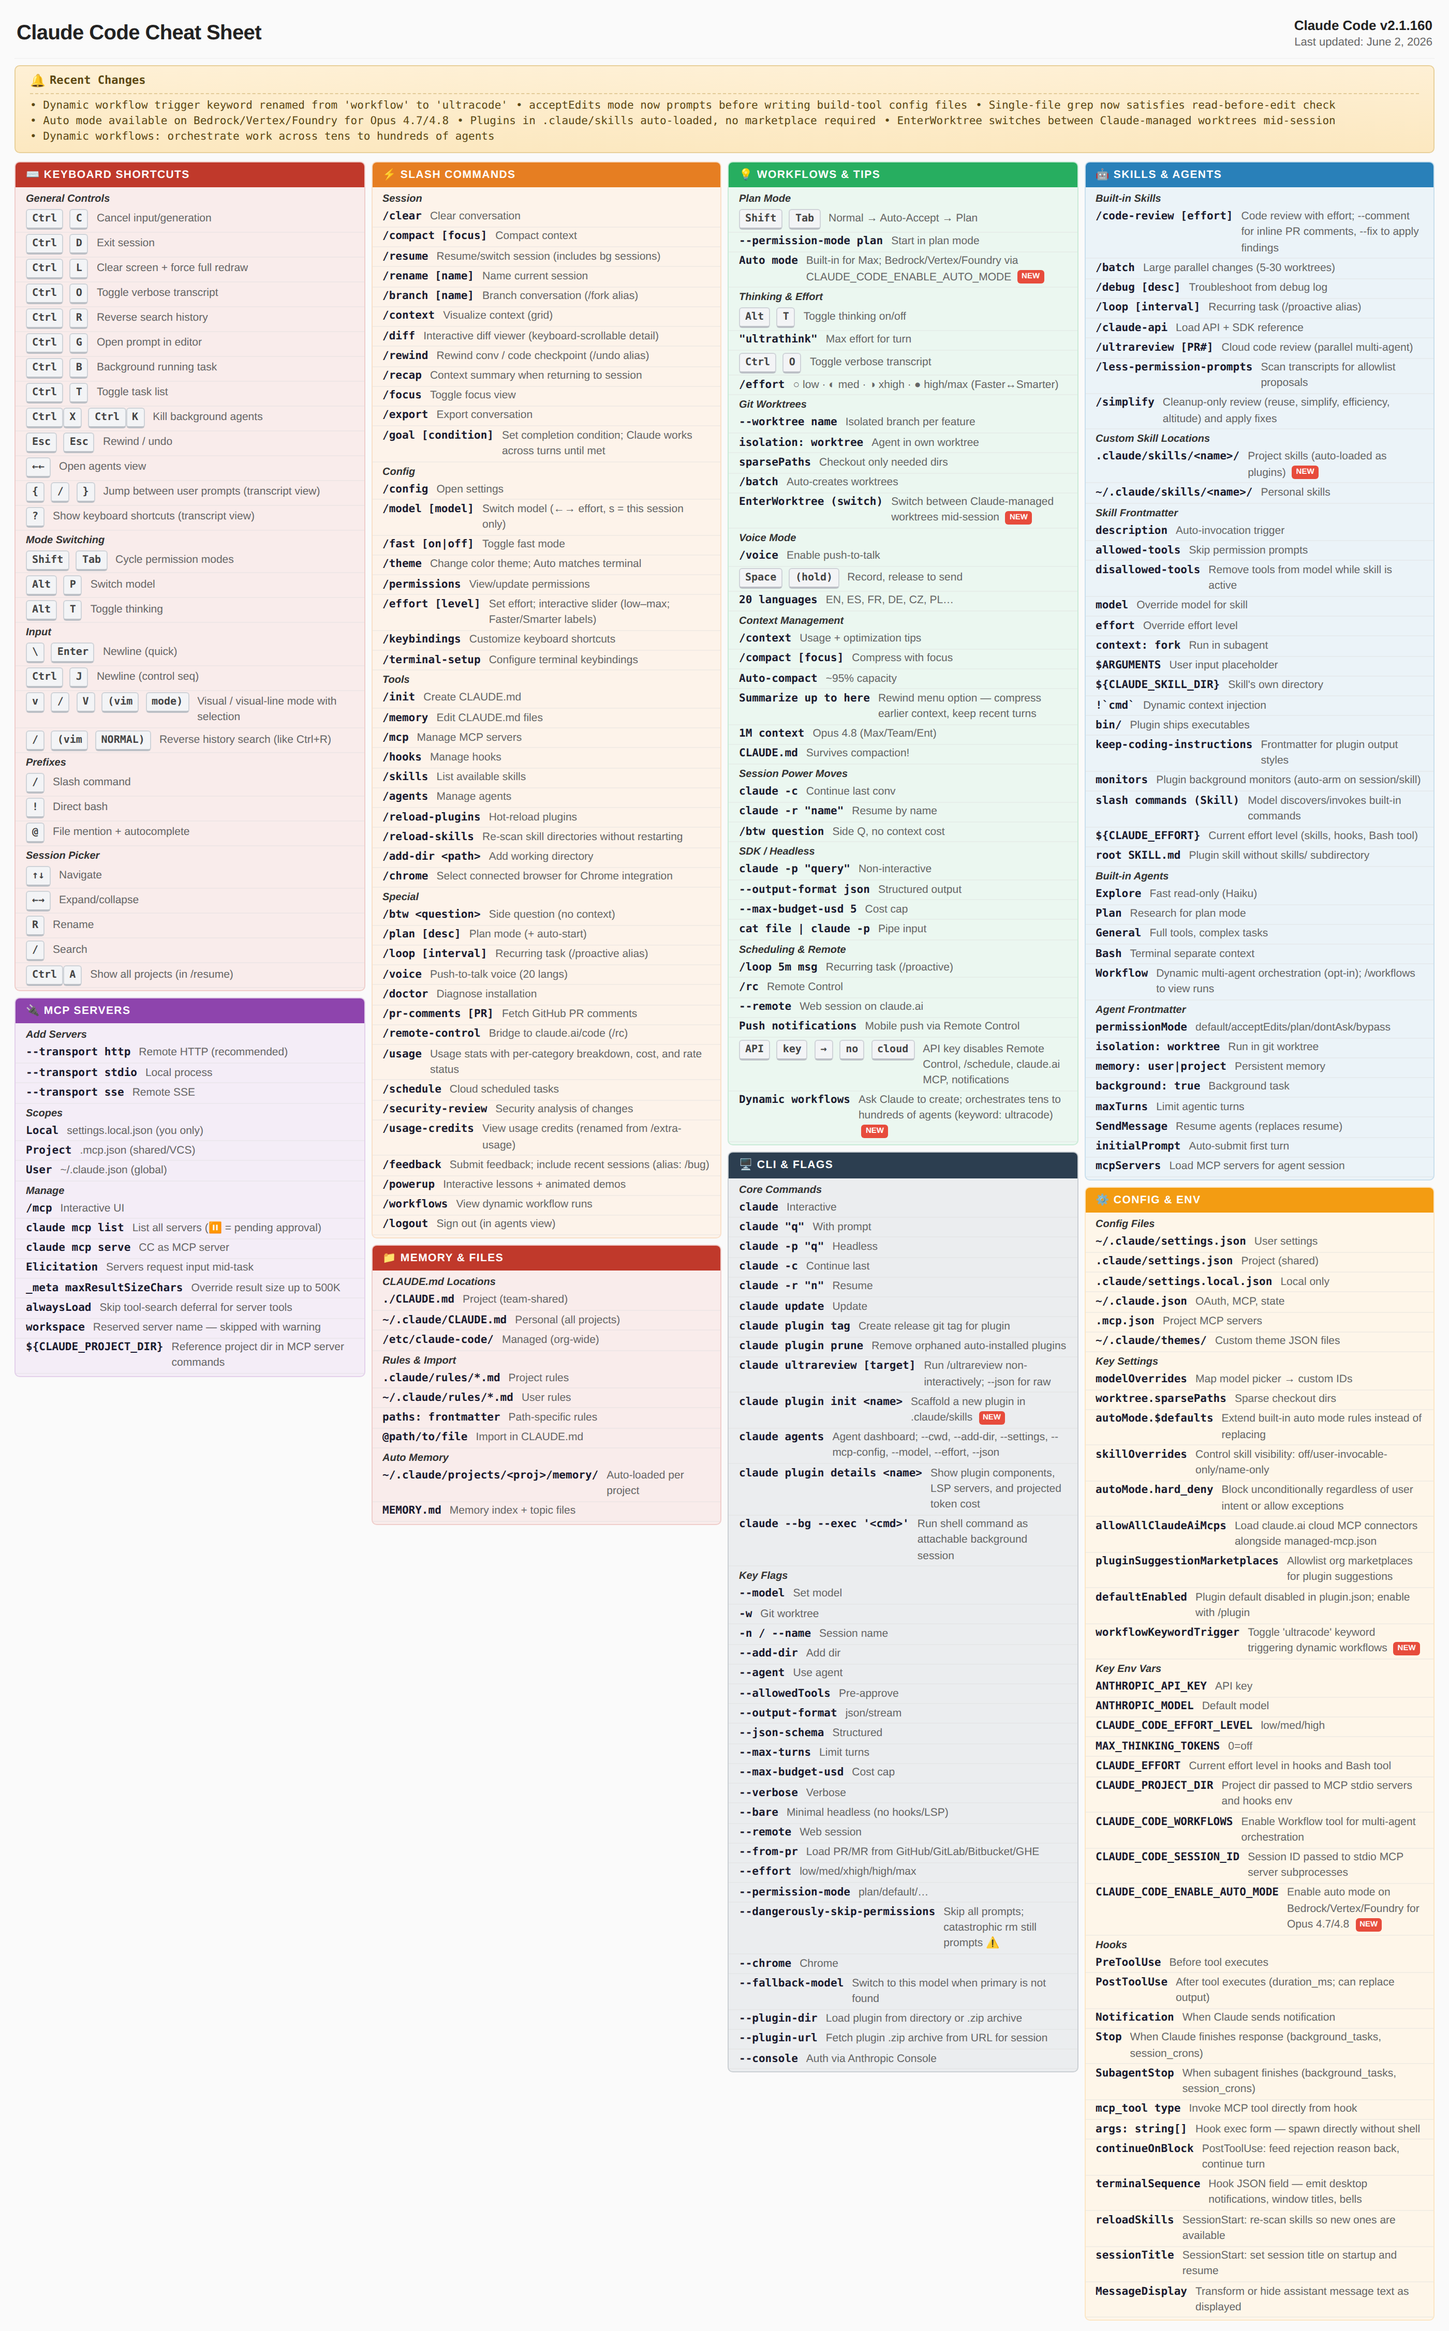
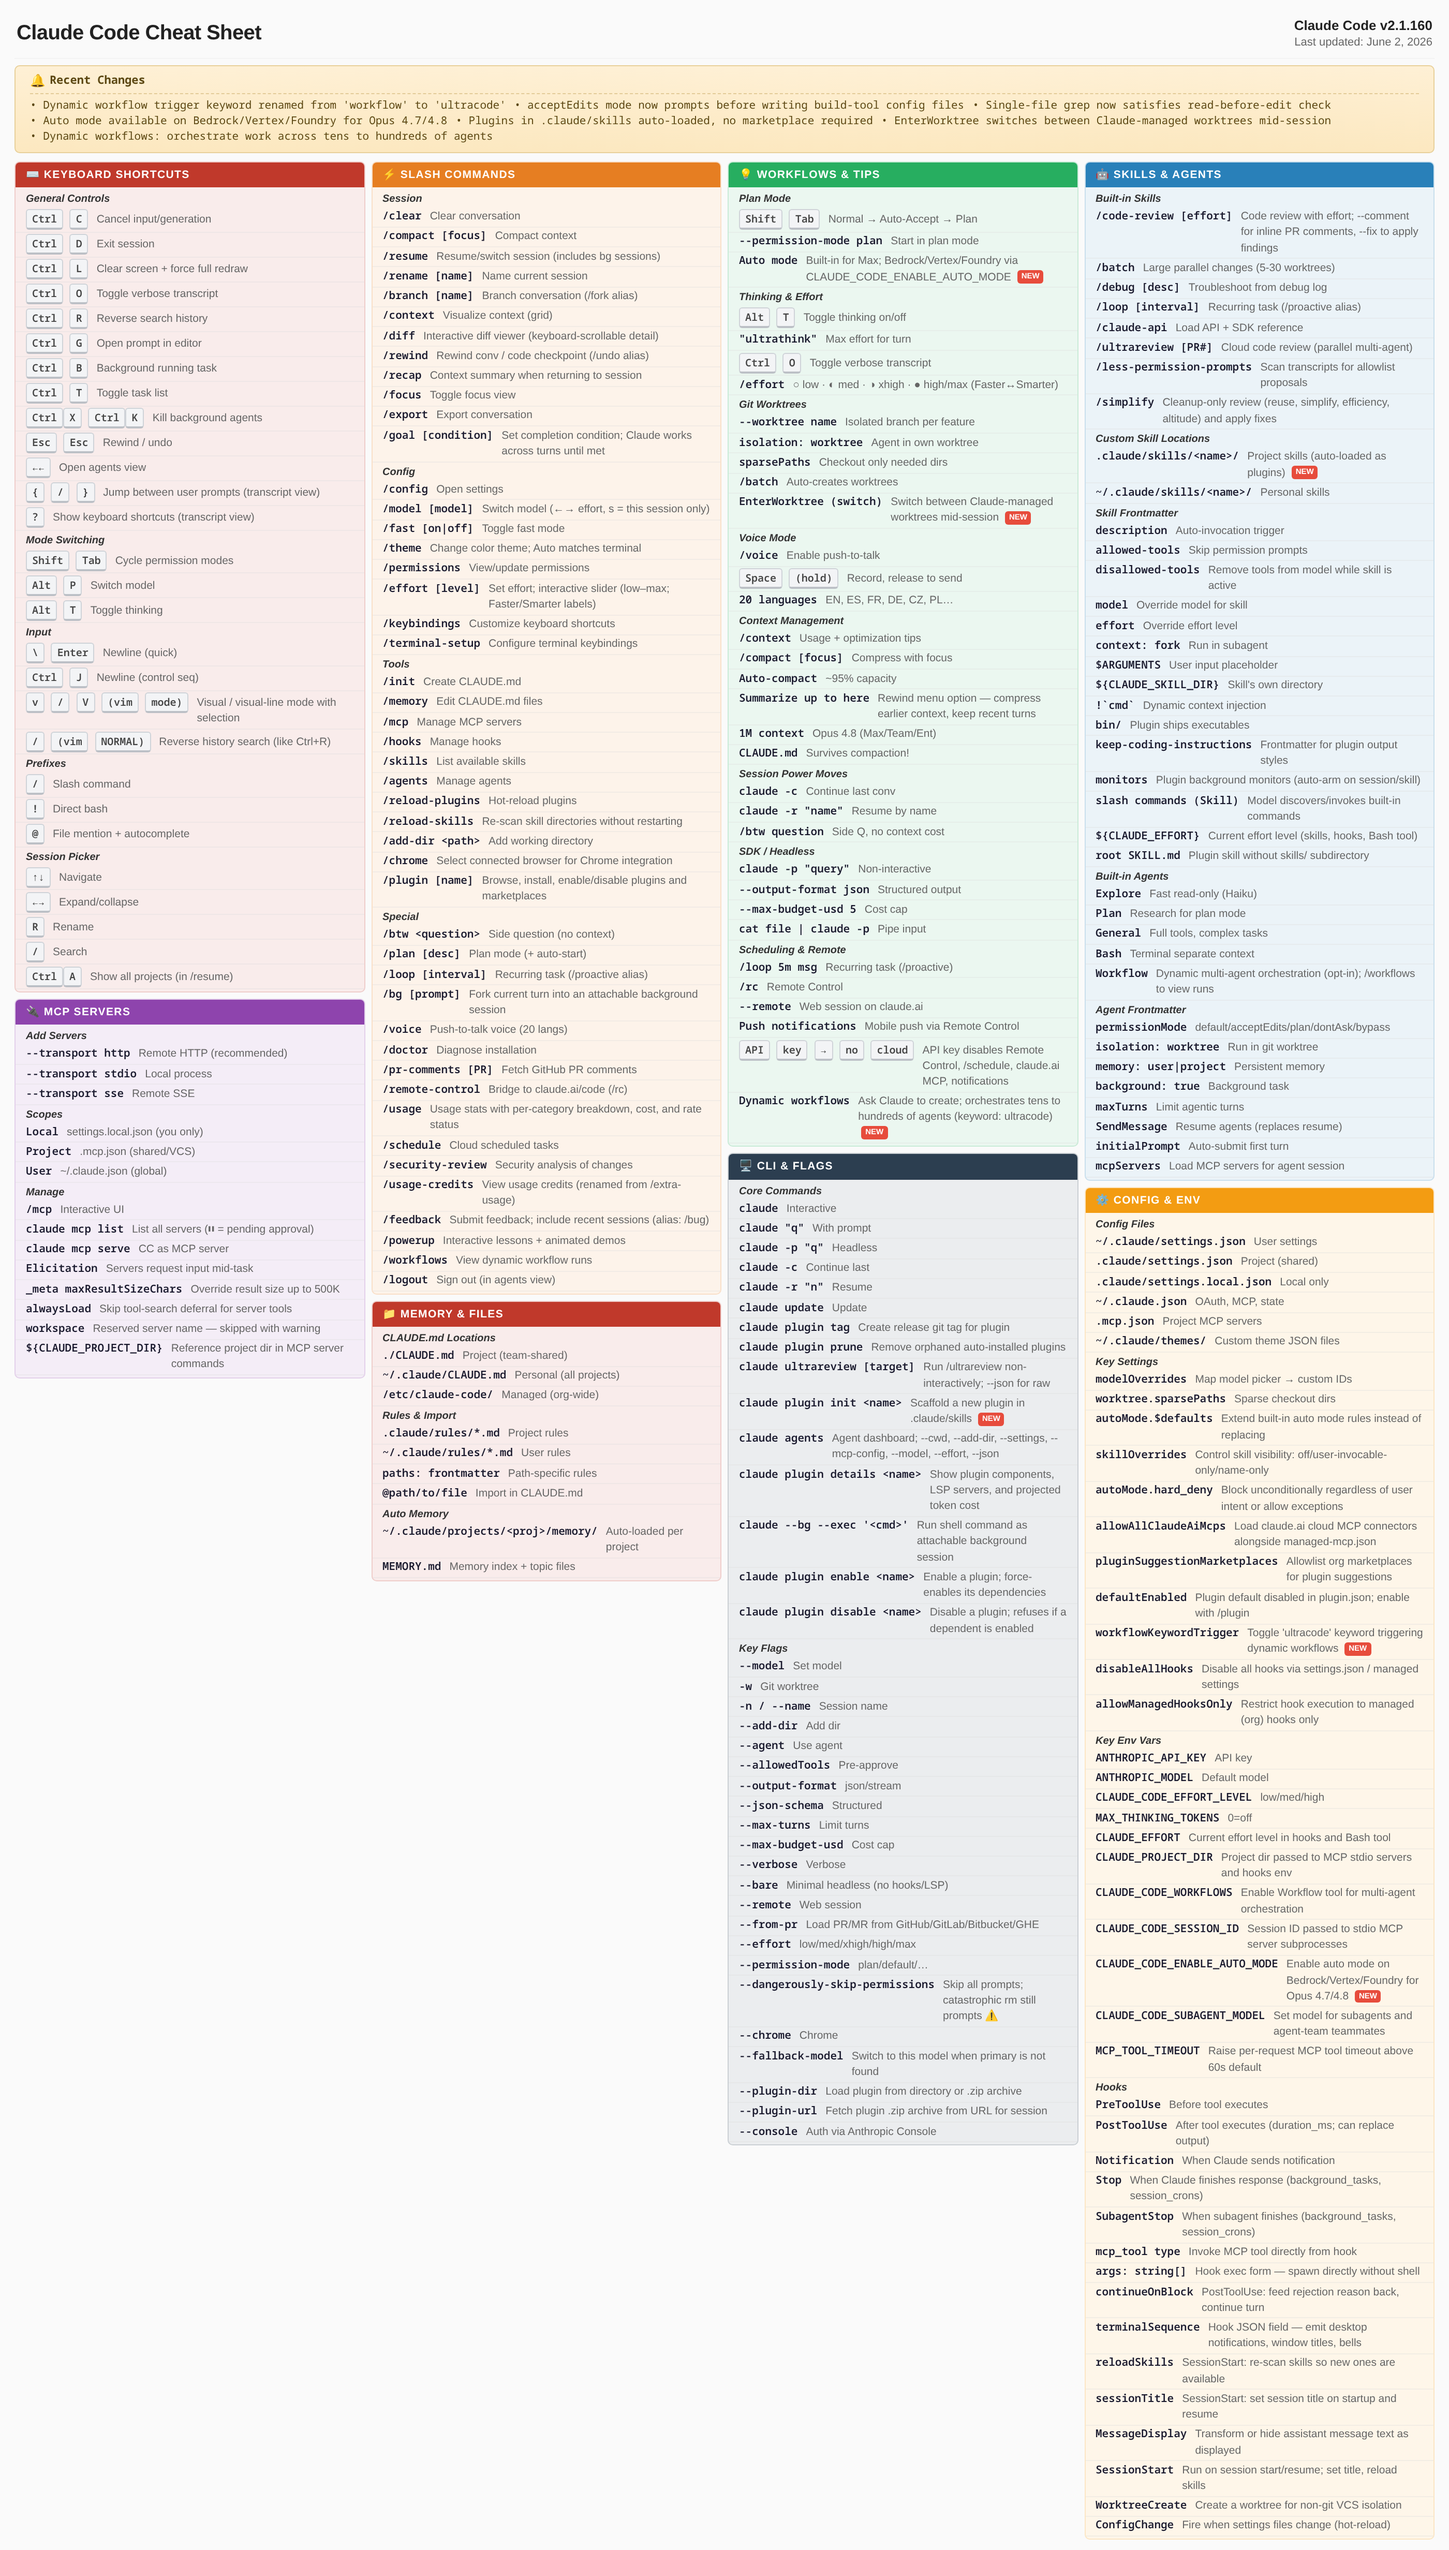
cheatsheet: raise section caps and backfill 11 dropped features
Recover user-facing features the curator dropped when sections were full,
and raise maxItems on the high-velocity sections to give future headroom.

- caps: slash-commands 45→50, cli-flags 35→40, config-env 36→46,
  keyboard-shortcuts 28→30, workflows-tips 35→38
- backfill: /plugin, /bg, claude plugin enable/disable, hooks SessionStart/
  WorktreeCreate/ConfigChange, settings disableAllHooks/allowManagedHooksOnly,
  env CLAUDE_CODE_SUBAGENT_MODEL/MCP_TOOL_TIMEOUT (228→250 items)

Changed region(s): [[0.0, 0.0, 0.9943, 1.0], [0.4971, 0.6525, 0.7146, 0.901]]

diff --git a/docs/index.html b/docs/index.html
@@ -498,6 +498,10 @@ kbd{
                 <span class="item-key">/chrome</span>
                 <span class="item-val">Select connected browser for Chrome integration</span>
               </div>
+              <div class="item" data-copy="/plugin [name]">
+                <span class="item-key">/plugin [name]</span>
+                <span class="item-val">Browse, install, enable/disable plugins and marketplaces</span>
+              </div>
             </div>
             <div class="group">
               <div class="group-label">Special</div>
@@ -513,6 +517,10 @@ kbd{
               <div class="item" data-copy="/loop [interval]">
                 <span class="item-key">/loop [interval]</span>
                 <span class="item-val">Recurring task (/proactive alias)</span>
+              </div>
+              <div class="item" data-copy="/bg [prompt]">
+                <span class="item-key">/bg [prompt]</span>
+                <span class="item-val">Fork current turn into an attachable background session</span>
               </div>
               <div class="item" data-copy="/voice">
                 <span class="item-key">/voice</span>
@@ -851,6 +859,14 @@ kbd{
               <div class="item" data-copy="claude --bg --exec '&lt;cmd&gt;'">
                 <span class="item-key">claude --bg --exec '&lt;cmd&gt;'</span>
                 <span class="item-val">Run shell command as attachable background session</span>
+              </div>
+              <div class="item" data-copy="claude plugin enable &lt;name&gt;">
+                <span class="item-key">claude plugin enable &lt;name&gt;</span>
+                <span class="item-val">Enable a plugin; force-enables its dependencies</span>
+              </div>
+              <div class="item" data-copy="claude plugin disable &lt;name&gt;">
+                <span class="item-key">claude plugin disable &lt;name&gt;</span>
+                <span class="item-val">Disable a plugin; refuses if a dependent is enabled</span>
               </div>
             </div>
             <div class="group">
@@ -1196,6 +1212,14 @@ kbd{
                 <span class="item-key">workflowKeywordTrigger</span>
                 <span class="item-val">Toggle 'ultracode' keyword triggering dynamic workflows <b class="new">NEW</b></span>
               </div>
+              <div class="item" data-copy="disableAllHooks">
+                <span class="item-key">disableAllHooks</span>
+                <span class="item-val">Disable all hooks via settings.json / managed settings</span>
+              </div>
+              <div class="item" data-copy="allowManagedHooksOnly">
+                <span class="item-key">allowManagedHooksOnly</span>
+                <span class="item-val">Restrict hook execution to managed (org) hooks only</span>
+              </div>
             </div>
             <div class="group">
               <div class="group-label">Key Env Vars</div>
@@ -1235,6 +1259,14 @@ kbd{
               <div class="item" data-copy="CLAUDE_CODE_ENABLE_AUTO_MODE">
                 <span class="item-key">CLAUDE_CODE_ENABLE_AUTO_MODE</span>
                 <span class="item-val">Enable auto mode on Bedrock/Vertex/Foundry for Opus 4.7/4.8 <b class="new">NEW</b></span>
+              </div>
+              <div class="item" data-copy="CLAUDE_CODE_SUBAGENT_MODEL">
+                <span class="item-key">CLAUDE_CODE_SUBAGENT_MODEL</span>
+                <span class="item-val">Set model for subagents and agent-team teammates</span>
+              </div>
+              <div class="item" data-copy="MCP_TOOL_TIMEOUT">
+                <span class="item-key">MCP_TOOL_TIMEOUT</span>
+                <span class="item-val">Raise per-request MCP tool timeout above 60s default</span>
               </div>
             </div>
             <div class="group">
@@ -1287,6 +1319,18 @@ kbd{
               <div class="item" data-copy="MessageDisplay">
                 <span class="item-key">MessageDisplay</span>
                 <span class="item-val">Transform or hide assistant message text as displayed</span>
+              </div>
+              <div class="item" data-copy="SessionStart">
+                <span class="item-key">SessionStart</span>
+                <span class="item-val">Run on session start/resume; set title, reload skills</span>
+              </div>
+              <div class="item" data-copy="WorktreeCreate">
+                <span class="item-key">WorktreeCreate</span>
+                <span class="item-val">Create a worktree for non-git VCS isolation</span>
+              </div>
+              <div class="item" data-copy="ConfigChange">
+                <span class="item-key">ConfigChange</span>
+                <span class="item-val">Fire when settings files change (hot-reload)</span>
               </div>
             </div>
         </div>

diff --git a/CHEATSHEET.md b/CHEATSHEET.md
@@ -146,6 +146,7 @@
 | `/reload-skills` | Re-scan skill directories without restarting |
 | `/add-dir <path>` | Add working directory |
 | `/chrome` | Select connected browser for Chrome integration |
+| `/plugin [name]` | Browse, install, enable/disable plugins and marketplaces |
 
 ### Special
 
@@ -154,6 +155,7 @@
 | `/btw <question>` | Side question (no context) |
 | `/plan [desc]` | Plan mode (+ auto-start) |
 | `/loop [interval]` | Recurring task (/proactive alias) |
+| `/bg [prompt]` | Fork current turn into an attachable background session |
 | `/voice` | Push-to-talk voice (20 langs) |
 | `/doctor` | Diagnose installation |
 | `/pr-comments [PR]` | Fetch GitHub PR comments |
@@ -288,6 +290,8 @@
 | `claude agents` | Agent dashboard; --cwd, --add-dir, --settings, --mcp-config, --model, --effort, --json |
 | `claude plugin details <name>` | Show plugin components, LSP servers, and projected token cost |
 | `claude --bg --exec '<cmd>'` | Run shell command as attachable background session |
+| `claude plugin enable <name>` | Enable a plugin; force-enables its dependencies |
+| `claude plugin disable <name>` | Disable a plugin; refuses if a dependent is enabled |
 
 ### Key Flags
 
@@ -407,6 +411,8 @@
 | `pluginSuggestionMarketplaces` | Allowlist org marketplaces for plugin suggestions |
 | `defaultEnabled` | Plugin default disabled in plugin.json; enable with /plugin |
 | `workflowKeywordTrigger` | Toggle 'ultracode' keyword triggering dynamic workflows **NEW** |
+| `disableAllHooks` | Disable all hooks via settings.json / managed settings |
+| `allowManagedHooksOnly` | Restrict hook execution to managed (org) hooks only |
 
 ### Key Env Vars
 
@@ -421,6 +427,8 @@
 | `CLAUDE_CODE_WORKFLOWS` | Enable Workflow tool for multi-agent orchestration |
 | `CLAUDE_CODE_SESSION_ID` | Session ID passed to stdio MCP server subprocesses |
 | `CLAUDE_CODE_ENABLE_AUTO_MODE` | Enable auto mode on Bedrock/Vertex/Foundry for Opus 4.7/4.8 **NEW** |
+| `CLAUDE_CODE_SUBAGENT_MODEL` | Set model for subagents and agent-team teammates |
+| `MCP_TOOL_TIMEOUT` | Raise per-request MCP tool timeout above 60s default |
 
 ### Hooks
 
@@ -438,6 +446,9 @@
 | `reloadSkills` | SessionStart: re-scan skills so new ones are available |
 | `sessionTitle` | SessionStart: set session title on startup and resume |
 | `MessageDisplay` | Transform or hide assistant message text as displayed |
+| `SessionStart` | Run on session start/resume; set title, reload skills |
+| `WorktreeCreate` | Create a worktree for non-git VCS isolation |
+| `ConfigChange` | Fire when settings files change (hot-reload) |
 
 ---
 

diff --git a/README.md b/README.md
@@ -6,7 +6,7 @@
 > Refreshed every 5 minutes from the official [CHANGELOG](https://github.com/anthropics/claude-code/blob/main/CHANGELOG.md).
 
 [![Version](https://img.shields.io/badge/Claude_Code-v2.1.160-blue)](https://github.com/anthropics/claude-code)
-[![Items](https://img.shields.io/badge/items-239-green)](CHEATSHEET.md)
+[![Items](https://img.shields.io/badge/items-250-green)](CHEATSHEET.md)
 [![RSS](https://img.shields.io/badge/RSS-feed-orange)](https://defaultperson.github.io/cc-live-cheatsheet/feed.xml)
 
 **[Live interactive version →](https://defaultperson.github.io/cc-live-cheatsheet/)**
